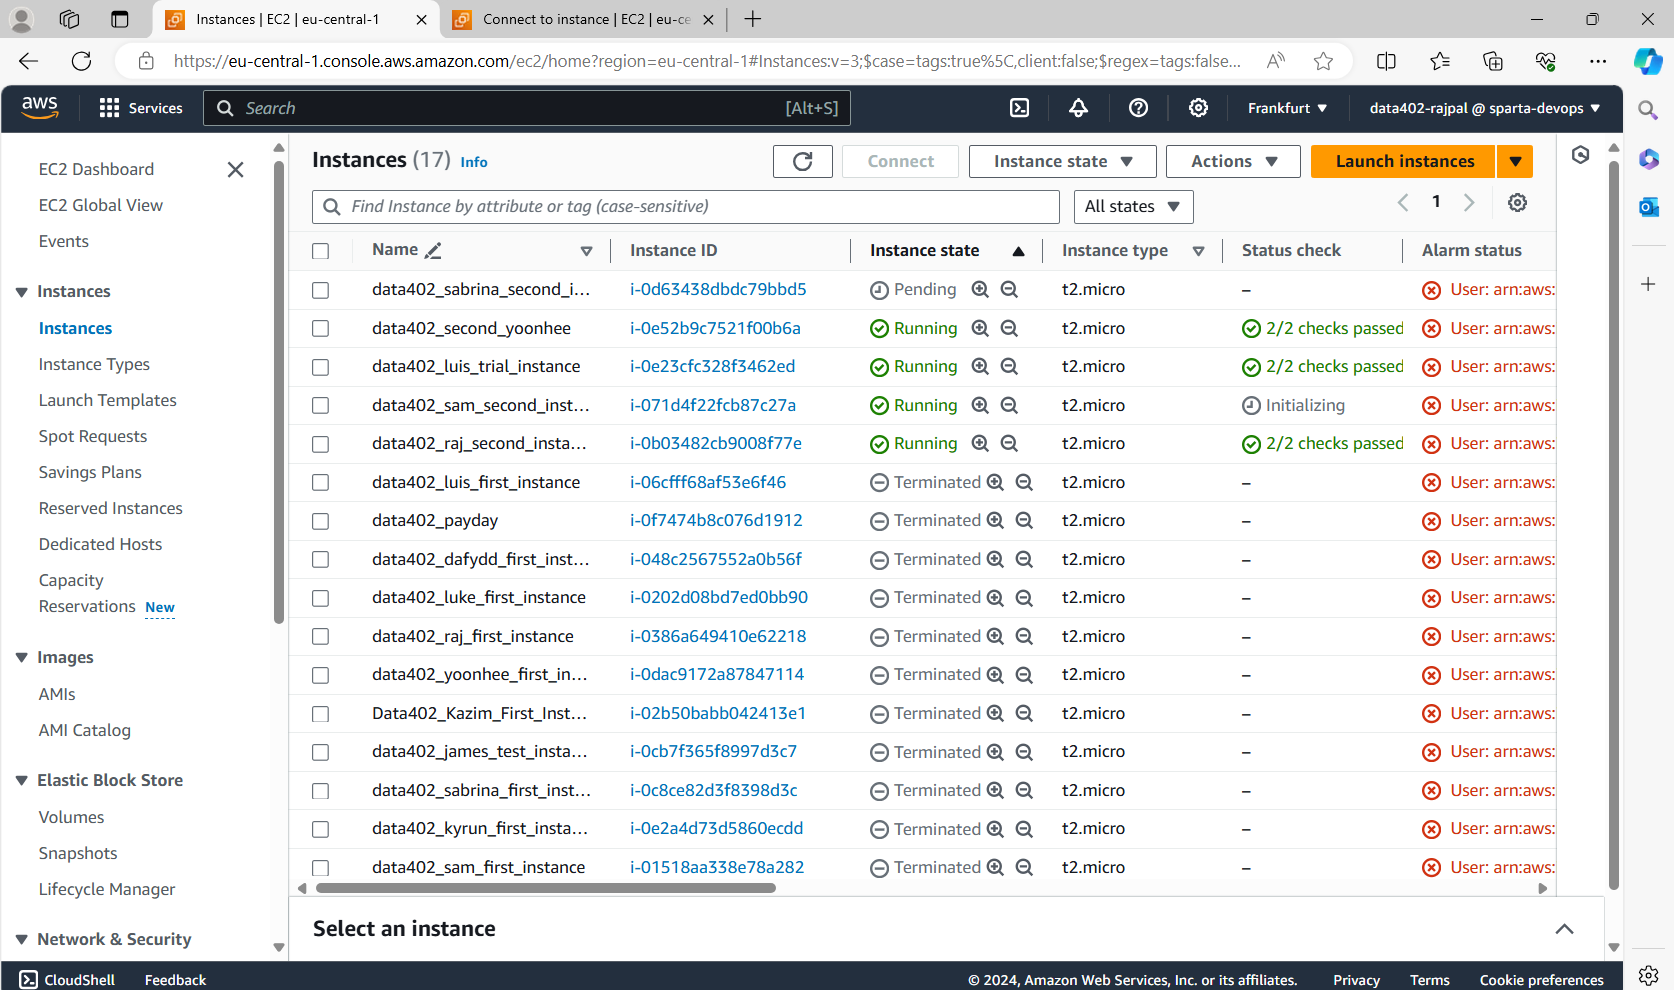
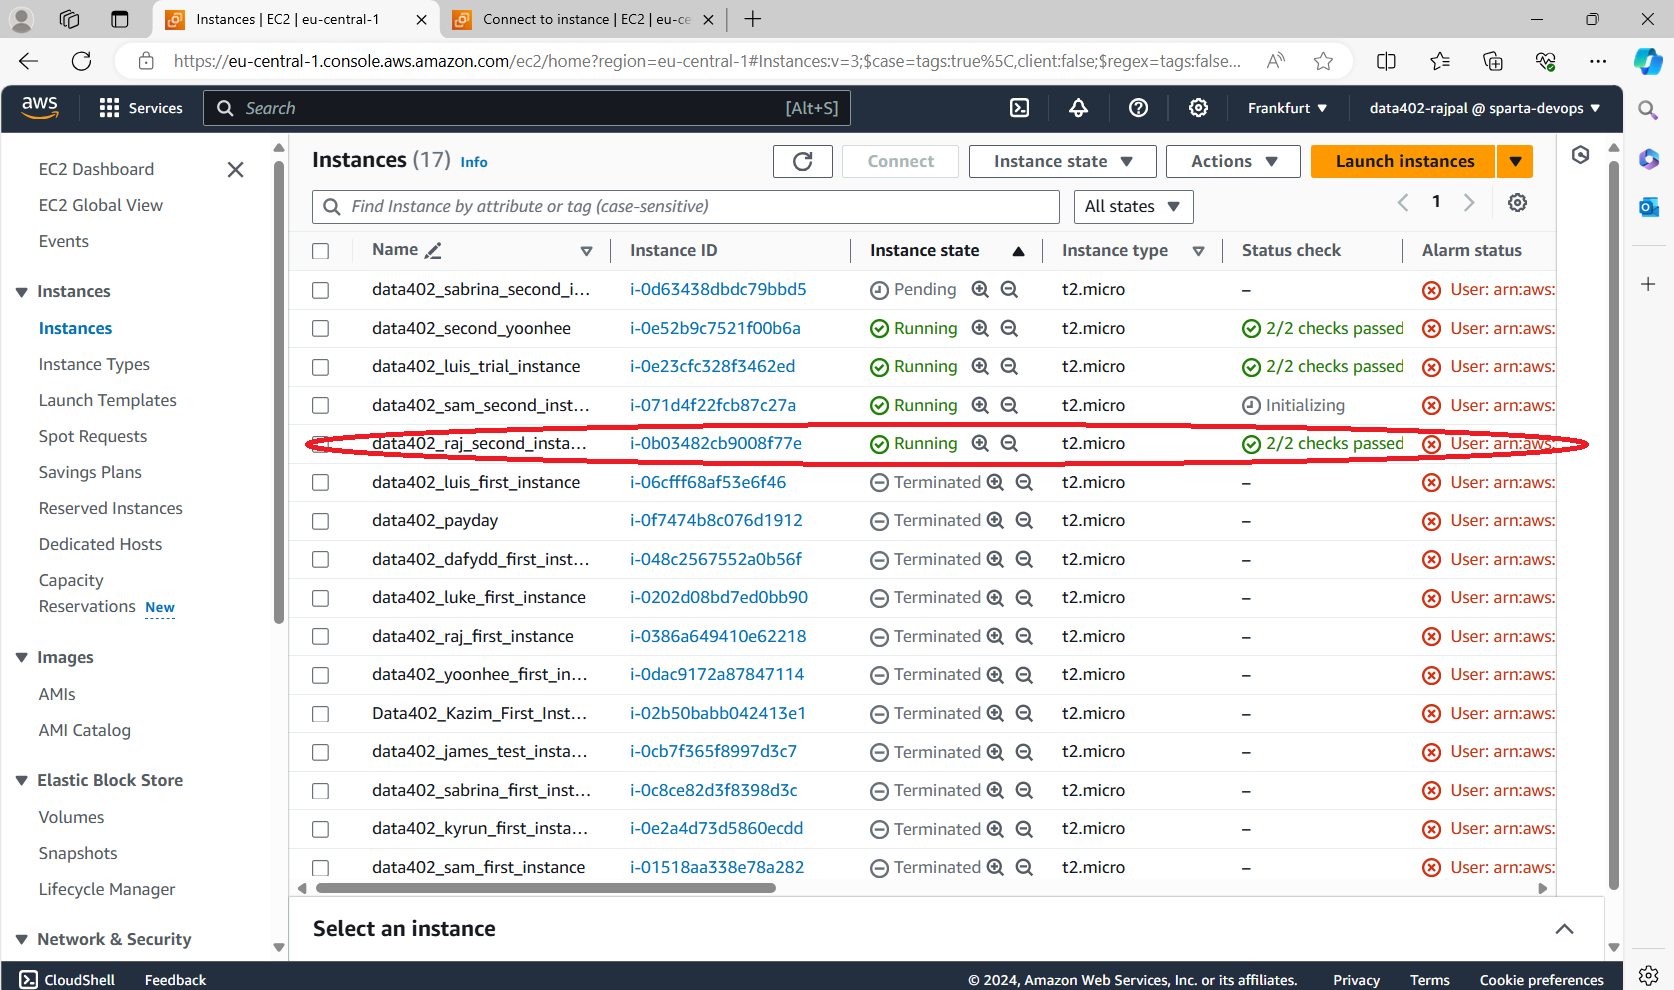
added stuff

Changed region(s): [[0.1864, 0.4242, 0.963, 0.4848]]

diff --git a/AWS_EC2README.md b/AWS_EC2README.md
@@ -41,3 +41,6 @@
 !["Alt Text"](aws/13.png)
 
 ### Enter ```exit``` to close the connection 
+
+### Terminate the instance
+!["Alt Text"](aws/14.png)
